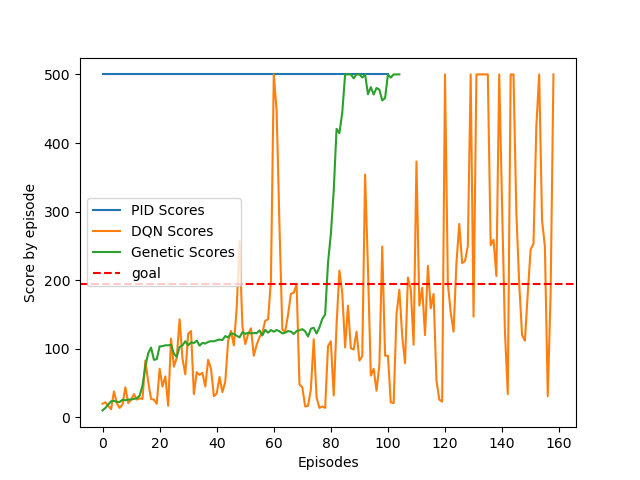
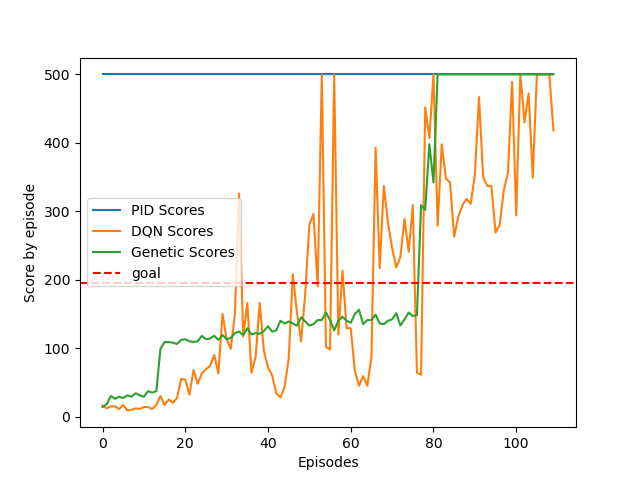
updated chart creation

diff --git a/algorithms/Genetic.py b/algorithms/Genetic.py
@@ -12,7 +12,8 @@ class CartPoleGenetic:
                         random_seed=0, elitism=0.2, convergence_condition=195, render_result=True, mean_crossover=False):
         self.env = gym.make("CartPole-v1")
         self.env.seed(random_seed)
-        random.seed(random_seed)
+        self.rnd = random.Random()
+        self.rnd.seed(random_seed)
 
         self.population_size = population_size
         self.weight_spread = weight_spread
@@ -33,7 +34,7 @@ class CartPoleGenetic:
         self.population = []
 
         for _ in range(self.population_size):
-            random_weights = [random.uniform(-self.weight_spread/2, self.weight_spread/2) for _ in range(4)]
+            random_weights = [self.rnd.uniform(-self.weight_spread/2, self.weight_spread/2) for _ in range(4)]
             self.population.append(random_weights)
 
     @staticmethod
@@ -69,18 +70,18 @@ class CartPoleGenetic:
     def select_parent(self):
         candidates = []
         while len(candidates) < self.crossover_individuals:
-            candidate = random.randrange(self.population_size)
+            candidate = self.rnd.randrange(self.population_size)
             if(candidate not in candidates):
                 candidates.append(candidate)
         # I return the candidate with the highest score 
         # the population is already sorted by score, so I just return the element with the smallest index
         return min(candidates)
     
-    def train(self):
+    def train(self, episodes=0):
         iteration_count = 0
         start = time()
 
-        while not self.solved:
+        while not self.solved or len(self.best_scores) < episodes:
             iteration_count += 1
             self.create_next_generation()
 
@@ -97,30 +98,30 @@ class CartPoleGenetic:
             os.makedirs('results')
 
         best_individual = np.max(self.train_generation())
-        df = pd.DataFrame(data=[[best_individual, self.episodes, np.mean(self.scores[-100:]), self.time_taken/60]], index=None, 
+        df = pd.DataFrame(data=[[best_individual, self.episodes, np.mean(self.best_scores[-100:]), self.time_taken/60]], index=None, 
                                             columns=['Final Reward', 'Number Of Episodes', 'Average Reward', 'Time Taken'])
         df.to_csv('results/ga-results.csv', index=False)
 
     def plot_results(self):
         fig, ax = plt.subplots(nrows=1, ncols=2, figsize=(12, 5), dpi=200)
         fig.suptitle("Genetic Algorithm Results")
-        ax[0].plot(self.scores, label='score per run')
+        ax[0].plot(self.best_scores, label='score per run')
         ax[0].axhline(195, c='red', ls='--', label='goal')
         ax[0].set_xlabel('Episodes')
         ax[0].set_ylabel('Reward')
-        x = range(len(self.scores))
+        x = range(len(self.best_scores))
         ax[0].legend()
 
         # Calculate the trend
         try:
-            z = np.polyfit(x, self.scores, 1)
+            z = np.polyfit(x, self.best_scores, 1)
             p = np.poly1d(z)
             ax[0].plot(x, p(x), "--", label='trend')
         except:
             print('')
 
         # Plot the histogram of results
-        ax[1].hist(self.scores[-50:])
+        ax[1].hist(self.best_scores[-50:])
         ax[1].axvline(195, c='red', label='goal')
         ax[1].set_xlabel('Scores for last 50 Episodes')
         ax[1].set_ylabel('Frequency')
@@ -150,8 +151,8 @@ class CartPoleGenetic:
     def mutate_generation(self):
         for weights in self.population:
             for i in range(4):
-                if random.uniform(0, 1) < self.mutation_chance:
-                    weights[i] += random.uniform(-self.mutation_value/2, self.mutation_value/2)
+                if self.rnd.uniform(0, 1) < self.mutation_chance:
+                    weights[i] += self.rnd.uniform(-self.mutation_value/2, self.mutation_value/2)
 
     def create_next_generation(self):
         fitness_score_list = self.train_generation()
@@ -169,7 +170,7 @@ class CartPoleGenetic:
         self.mean_score = np.mean(fitness_score_list)
         self.scores.append(self.mean_score)
         self.best_scores.append(np.max(fitness_score_list))
-        print(self.mean_score, self.best_scores[-1], np.mean(self.scores[-100:]))
+        print(self.mean_score, self.best_scores[-1], np.mean(self.best_scores[-100:]))
 
         top_performers_number = int(self.elitism * self.population_size)
         top_performers = [self.population[i] for i in range(top_performers_number)]
@@ -186,8 +187,8 @@ class CartPoleGenetic:
         for top_performer in top_performers:
             self.population.append(top_performer)
 
-        if(len(self.scores) >= 100):
-            if np.mean(self.scores[-100:]) >= self.convergence_condition:
+        if(len(self.best_scores) >= 100):
+            if np.mean(self.best_scores[-100:]) >= self.convergence_condition:
                 self.solved = True
 
 def main():      

diff --git a/algorithms/PIDController.py b/algorithms/PIDController.py
@@ -2,11 +2,13 @@ import gym
 import numpy as np
 import random
 import time
-random.seed(7)
 import matplotlib
 matplotlib.use("TkAgg")
 import matplotlib.pyplot as plt
 import pandas as pd
+
+rnd = random.Random()
+rnd.seed(7)
 
 def sigmoid(x):
     return 1 / (1 + np.exp(-x))
@@ -22,7 +24,7 @@ def gradient_descent(learning_rate = 0.05, epochs = 200, episodes=110):
     start_time = time.time()
 
     for _ in range(10):
-        P, I, D = random.uniform(0, 1), random.uniform(0, 1), random.uniform(0, 1)
+        P, I, D = rnd.uniform(0, 1), rnd.uniform(0, 1), rnd.uniform(0, 1)
         history = []
         for i in range(epochs):
             
@@ -62,6 +64,7 @@ def gradient_descent(learning_rate = 0.05, epochs = 200, episodes=110):
             history.append(reward["total_reward"])
     plot_results(final)
     get_results(total_reward, episode, av_reward, time_taken)
+    return final
           
 def get_results(total_reward, ep, av_reward, time_taken):
     minutes = time_taken/60
@@ -162,6 +165,5 @@ def pid(P, I, D, episodes=110):
         "convergence_time": convergence_time
     }
     
-
-gradient_descent()
-
+if __name__ == "__main__":
+    gradient_descent()

diff --git a/algorithms/CartpoleDQN.py b/algorithms/CartpoleDQN.py
@@ -17,10 +17,6 @@ random.seed(7)
 np.random.seed(7)
 tf.random.set_seed(7)
 
-
-
-
-
 # Hyperparameters
 GAMMA = 0.95
 LEARNING_RATE = 0.005
@@ -123,7 +119,7 @@ class CartpoleAgent:
             self.model.train(states, targets)
 
     # Train the model for x iterations
-    def train(self, max_episodes):
+    def train(self, max_episodes, episodes=0):
         start_time = time.time()
         reward_count = 0
         final = []
@@ -146,7 +142,7 @@ class CartpoleAgent:
             final.append(total_reward)
 
             # Check for convergence - average reward of 195 after 100 iterations
-            if len(final) > EPISODES_TO_SOLVE:
+            if len(final) > EPISODES_TO_SOLVE and len(final) >= episodes:
                 if np.mean(final[-100:]) >= 195:
                     end_time = time.time()
                     time_taken = end_time - start_time
